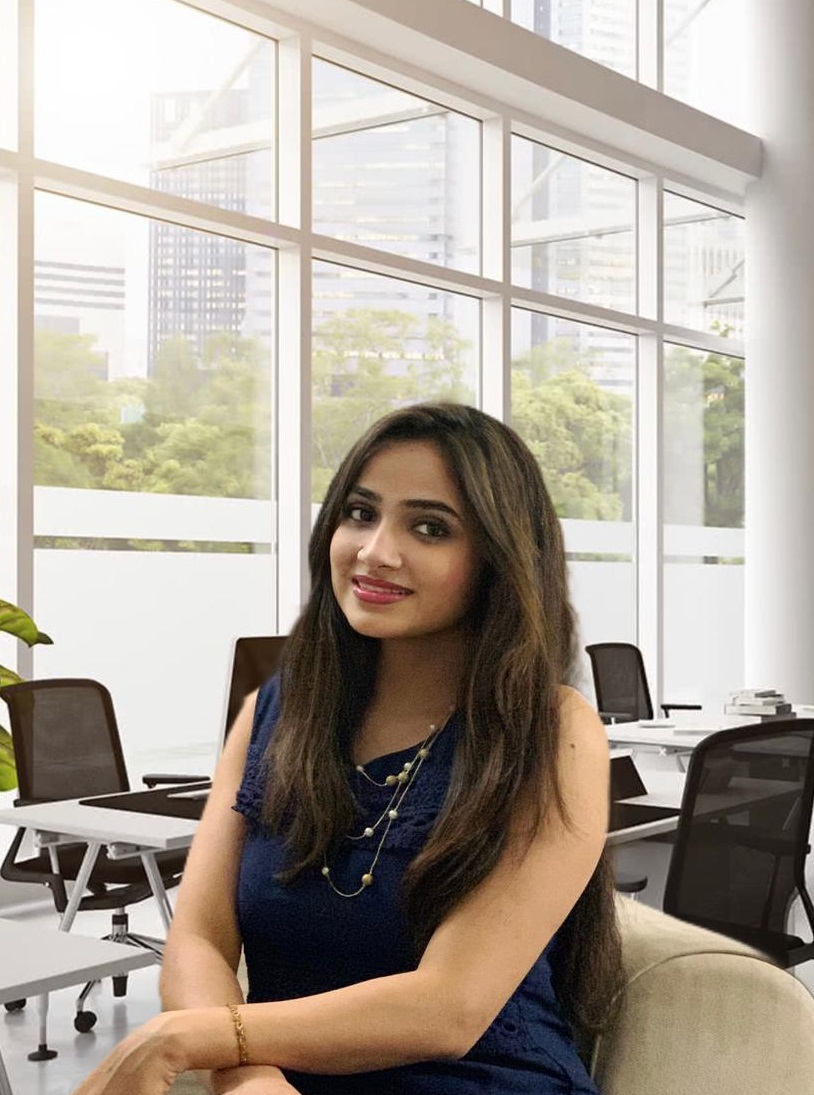
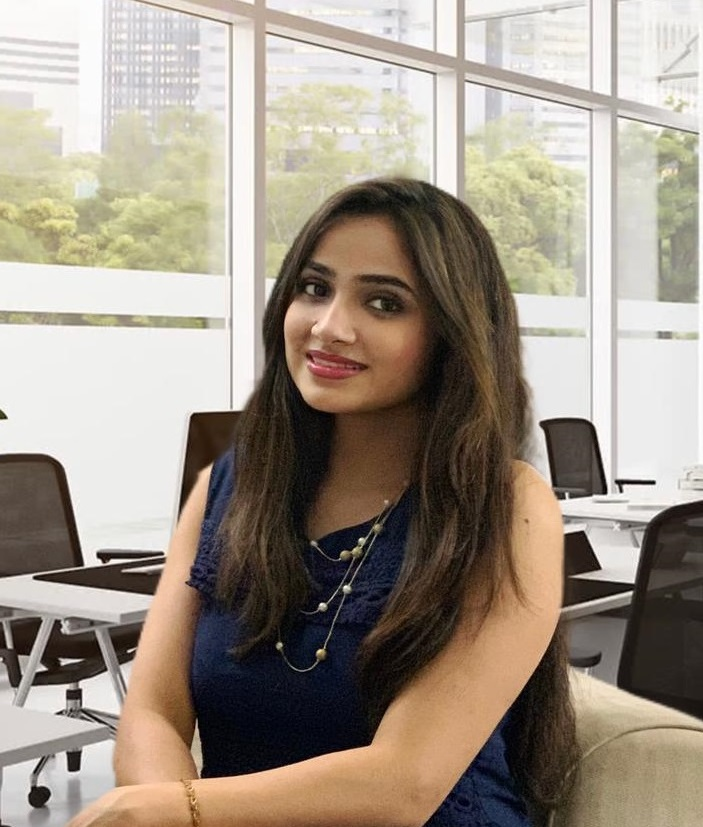
change in team image size

diff --git a/style.css b/style.css
@@ -337,7 +337,7 @@ header li, a{
 
 .tcard img{
     width: 253.5px;
-    height: 338px;
+    height: 298px;
 }
 
 .tcard h3{
